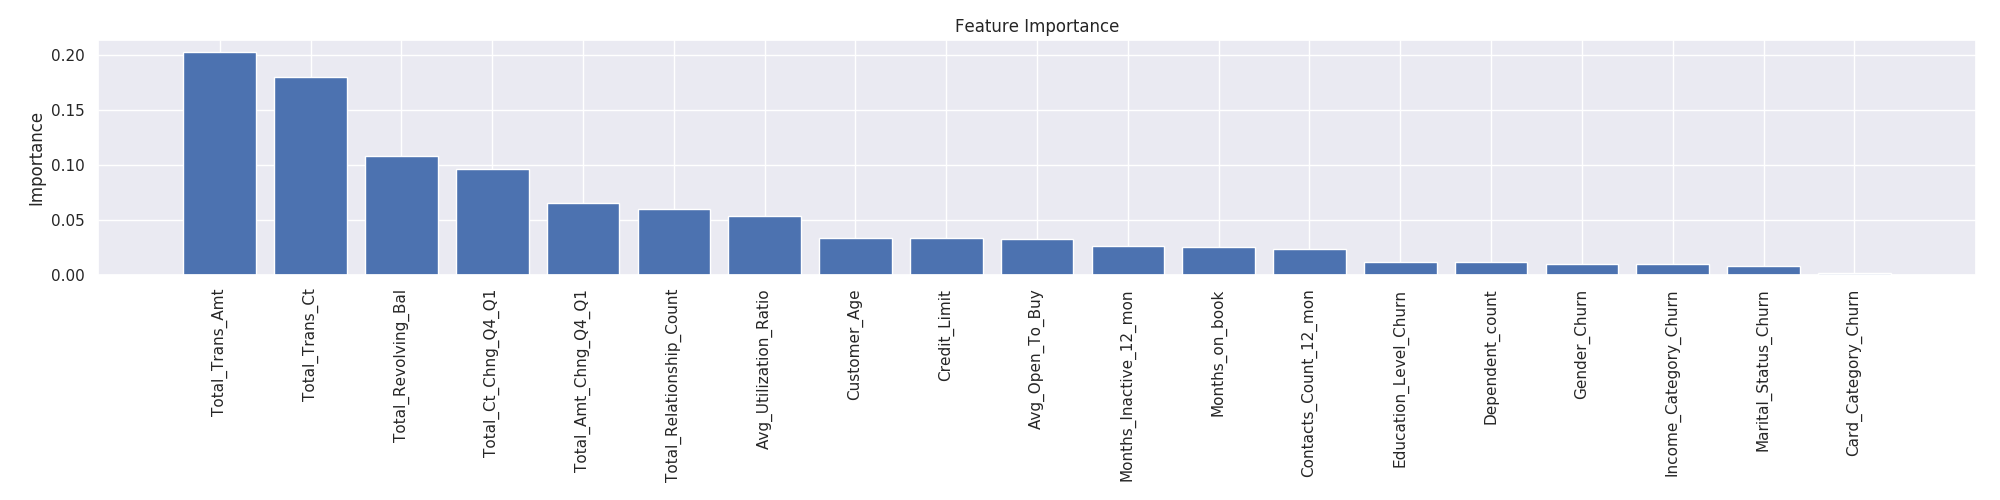
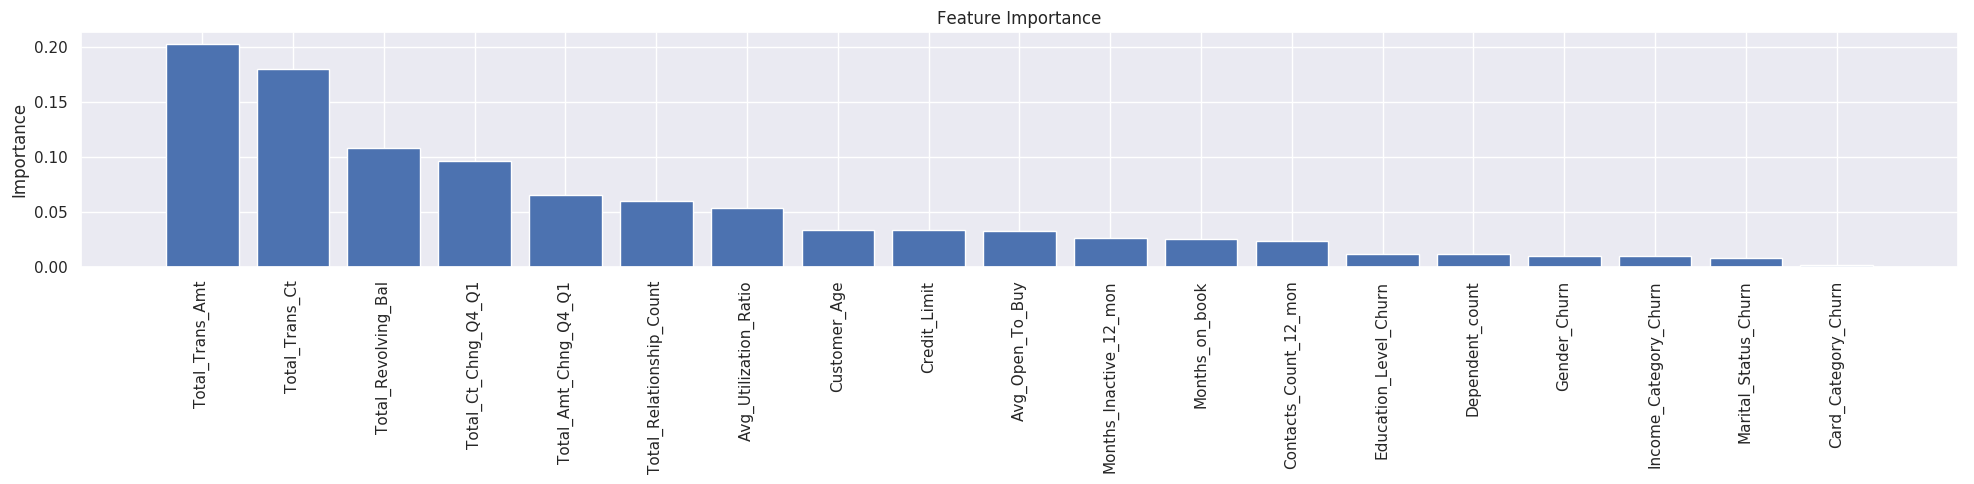
fix & docs: Fix produced images and improved documentation in README and code comments

diff --git a/churn_library.py b/churn_library.py
@@ -1,5 +1,8 @@
 '''
 This library has all the functions needed for churn prediction.
+
+Author: Jay Teguh
+Creation Date: 08/17/2023
 '''
 
 # Set the directories
@@ -198,22 +201,28 @@ def classification_report_image(y_train,
     print(classification_report(y_train, y_train_preds_lr))
 
     # Create & store plot
-    plt.figure(figsize=(5, 5))
+    plt.figure(figsize=(5, 9))
 
-    # plt.text(0.01, 0.05, str(model.summary()), {'fontsize': 12}) old approach
-    plt.text(0.01, 1.25, str('Random Forest Train'), {'fontsize': 10},
-             fontproperties='monospace')
+    plt.text(0.01, 1.00, 'Random Forest Test Results', {'fontsize': 12},
+        fontproperties='monospace')
+    plt.text(0.01, 0.775, str(classification_report(y_test, y_test_preds_rf)),
+        {'fontsize': 10}, fontproperties='monospace')
 
-    # approach improved by OP -> monospace!
-    plt.text(0.01, 0.05, str(classification_report(y_test, y_test_preds_rf)),
-             {'fontsize': 10}, fontproperties='monospace')
+    plt.text(0.01, 0.725, 'Random Forest Train Results', {'fontsize': 12},
+        fontproperties='monospace')
+    plt.text(0.01, 0.5, str(classification_report(y_train, y_train_preds_rf)),
+        {'fontsize': 10}, fontproperties='monospace')
 
-    plt.text(0.01, 0.6, str('Random Forest Test'),
-             {'fontsize': 10}, fontproperties='monospace')
+    plt.text(0.01, 0.450, 'Logistic Regression Test Results', {'fontsize': 12},
+        fontproperties='monospace')
+    plt.text(0.01, 0.225, str(classification_report(y_test, y_test_preds_lr)),
+        {'fontsize': 10}, fontproperties='monospace')
 
-    # approach improved by OP -> monospace!
-    plt.text(0.01, 0.7, str(classification_report(y_train, y_train_preds_rf)),
-             {'fontsize': 10}, fontproperties='monospace')
+    plt.text(0.01, 0.175, 'Logistic Regression Train Results', {'fontsize': 12},
+        fontproperties='monospace')
+    plt.text(0.01, -0.05, str(classification_report(y_train, y_train_preds_lr)),
+        {'fontsize': 10}, fontproperties='monospace')
+
     plt.axis('off')
 
     plt.tight_layout()
@@ -254,7 +263,7 @@ def feature_importance_plot(model, X_data, output_pth):
     plt.xticks(range(X_data.shape[1]), names, rotation=90)
 
     plt.tight_layout()
-    plt.savefig(output_pth)
+    plt.savefig(output_pth, bbox_inches='tight')
 
 
 def train_models(X_train, X_test, y_train, y_test,

diff --git a/churn_script_logging_and_tests.py b/churn_script_logging_and_tests.py
@@ -1,3 +1,10 @@
+'''
+The script that contains test functions to be run with `pytest`.
+
+Author: Jay Teguh
+Creation Date: 08/17/2023
+'''
+
 import os
 import logging
 import pytest

diff --git a/README.md b/README.md
@@ -1,15 +1,44 @@
 # Predict Customer Churn
 
-- Project **Predict Customer Churn** of ML DevOps Engineer Nanodegree Udacity
+Project **Predict Customer Churn** of ML DevOps Engineer Nanodegree Udacity
 
 ## Project Description
-This is my submission for the Predict Customer Churn project by Udacity
+
+In this project, we identify credit card customers that are most likely to churn. The completed project includes a Python package for a machine learning project that follows coding (PEP8) and engineering best practices for implementing software (modular, documented, and tested). The package will also have the flexibility of being run interactively or from the command-line interface (CLI).
 
 ## Files and data description
 
-- `churn_notebook.pynb`: The notebook that contains unrefactored code.
-- `churn_library.py`: The refactored script.
+- `data/`
+  - `bank_data.csv`: The dataset for this project.
+- `images/`
+  - `eda/`
+    - `age_hist.png`: Ages histogram
+    - `churn_hist.png`: Churns histogram
+    - `corrplot.png`: Correlation plot between all numerical variables
+    - `marital_bar.png`: Marital status distribution bar plot
+    - `ttc_dens.png`: Total transaction distribution plot
+  - `results/`
+    - `classification_results.png`: Results of the classification process
+    - `feature_importances.png`: Feature importances report
+    - `roc_curve.png`: ROC curve report
+    - `summary.png`: Summary plot that shows feature impacts
+
+- `models/`:
+  - `logistic_model.pkl`: The file that contains the logistic model
+  - `rfc_model.pkl`: The file that contains the random forest classifier model
+- `test_images/**` and `test_models/*`: same as `images/**` and `models/*` but
+  for the tests
+- `churn_library.py`: The refactored script
+- `churn_notebook-original.pynb`: The original notebook that contains
+  unrefactored code.
+- `churn_notebook.pynb`: The notebook that contains unrefactored code
 - `churn_script_logging_and_testing.py`: Unit testing file. Uses `pytest`
+- `Guide.ipynb`: The notebook that contains a guidance for this project.
+- `README.md`: This documentation file.
+- `requirements_py3.6.txt`: Python requirements file for Python 3.6.3.
+- `requirements_py3.8.txt`: Python requirements file for Python 3.8.
+- `successful_pytest_run.png`: A screenshot showing a successful pytest run.
+
 
 ## Running Files
 
@@ -40,8 +69,8 @@ python churn_library.py
 
 ### Follows PEP 8 Guidelines
 
-- Running `pylint ./churn_libraries.py` gave me a score of 7.84.
-- Running `pylint ./churn_script_logging_and_tests.py` gave me a score of 7.62.
+- Running `pylint ./churn_library.py` gave me a score of 7.86.
+- Running `pylint ./churn_script_logging_and_tests.py` gave me a score of 7.74.
 
 
 ### Runs Successfully
